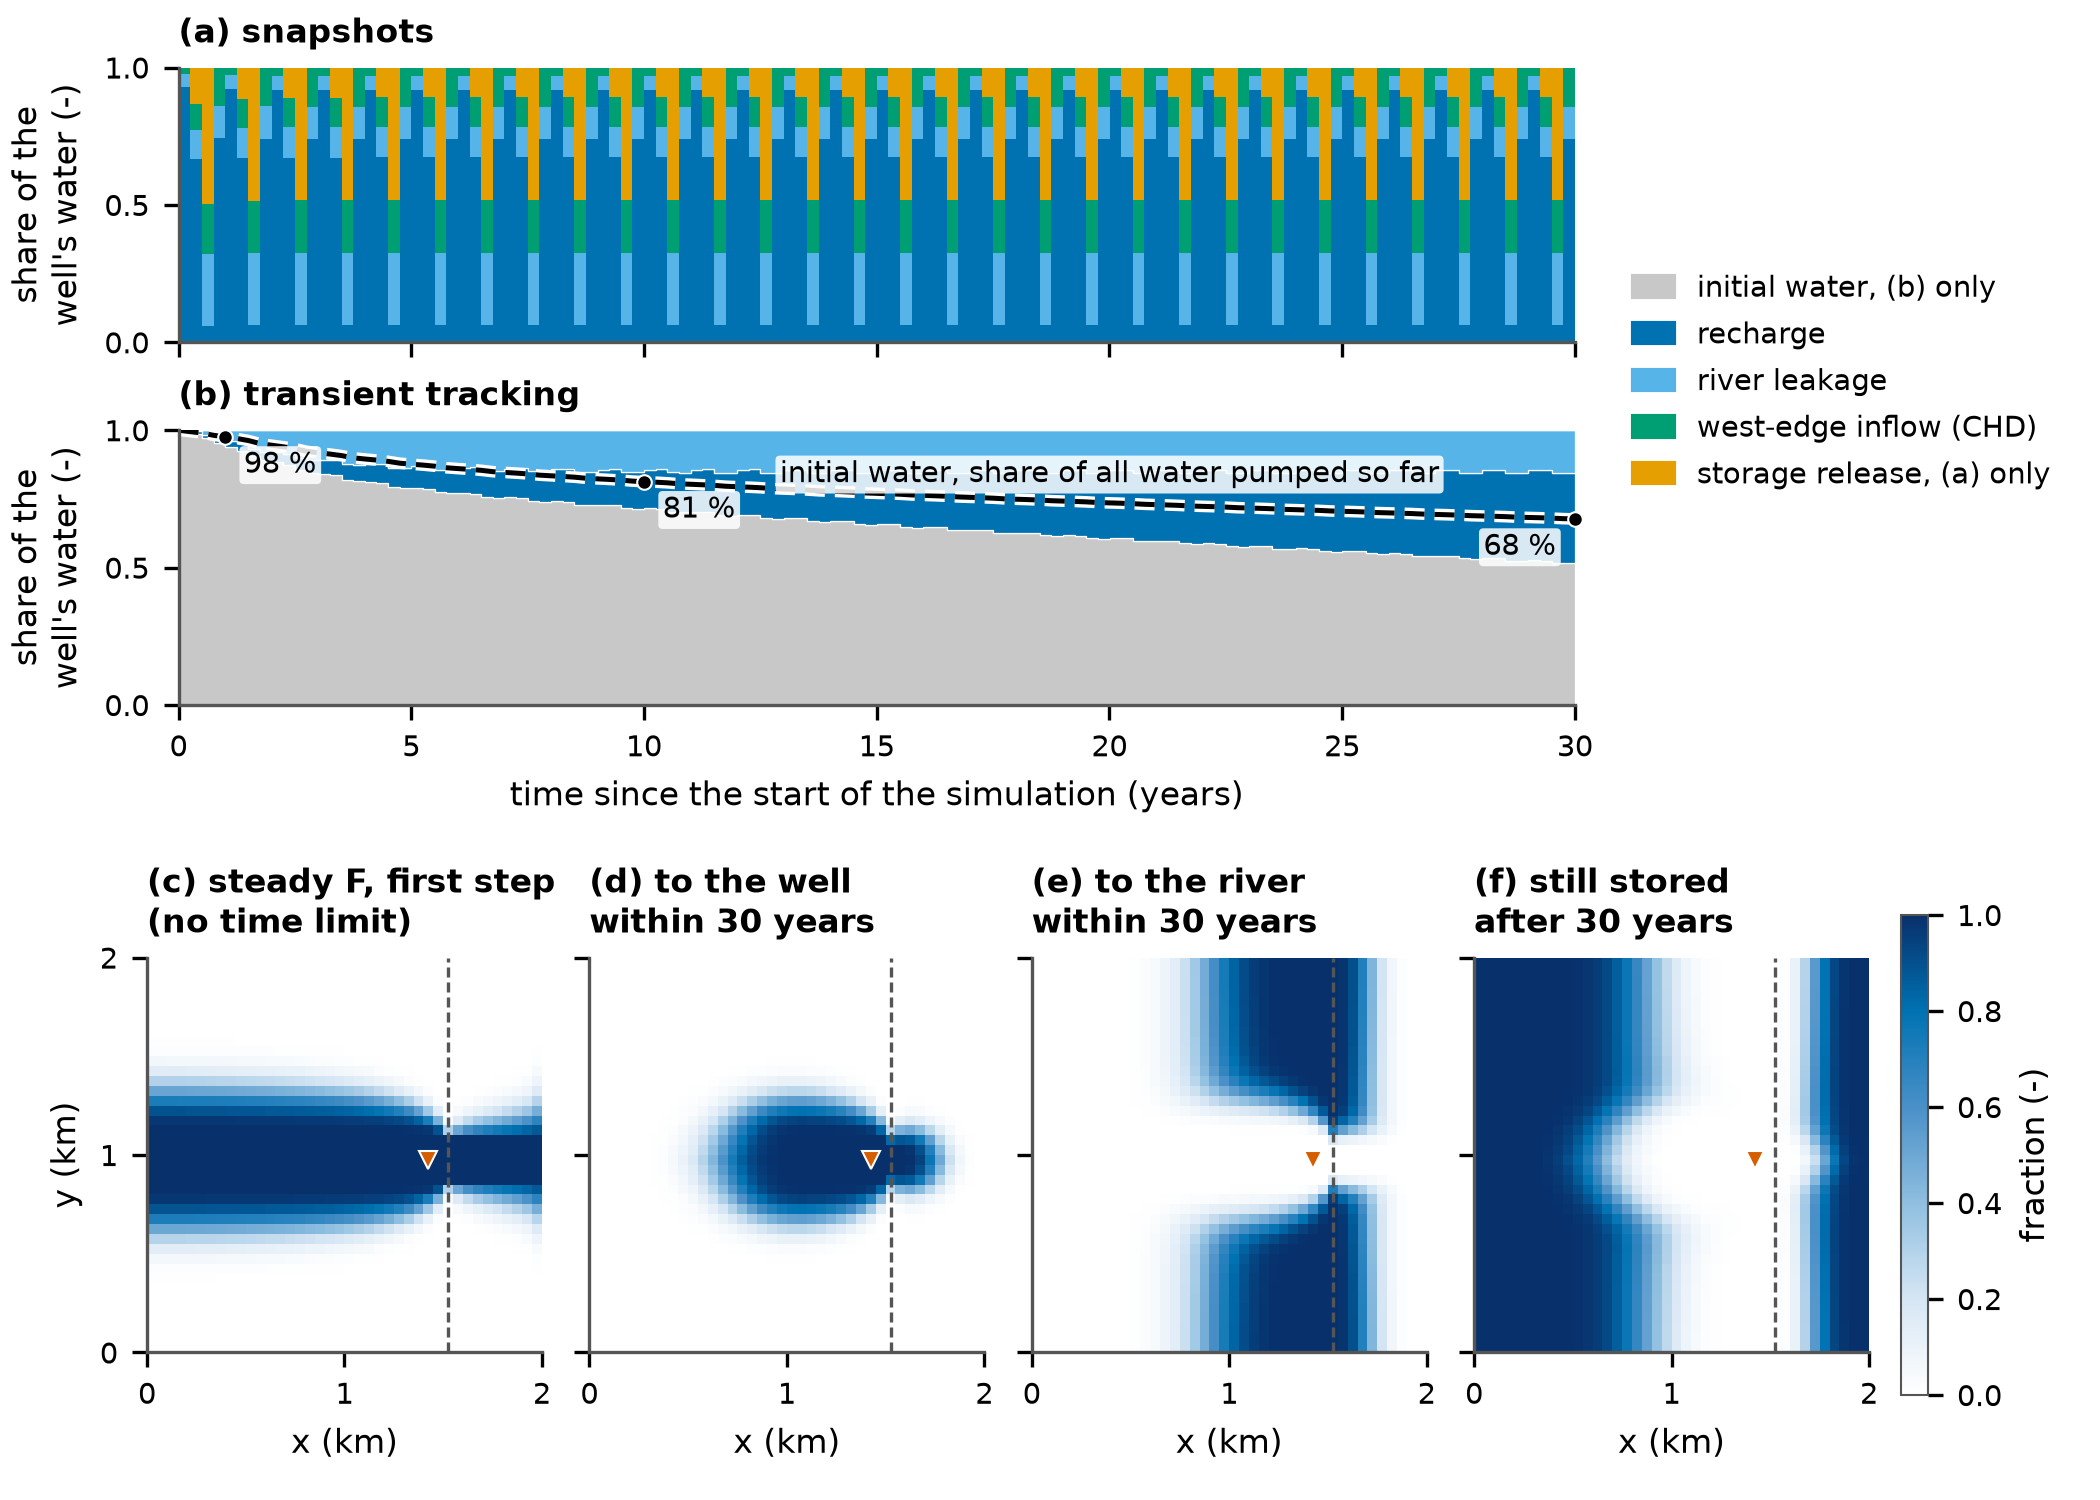
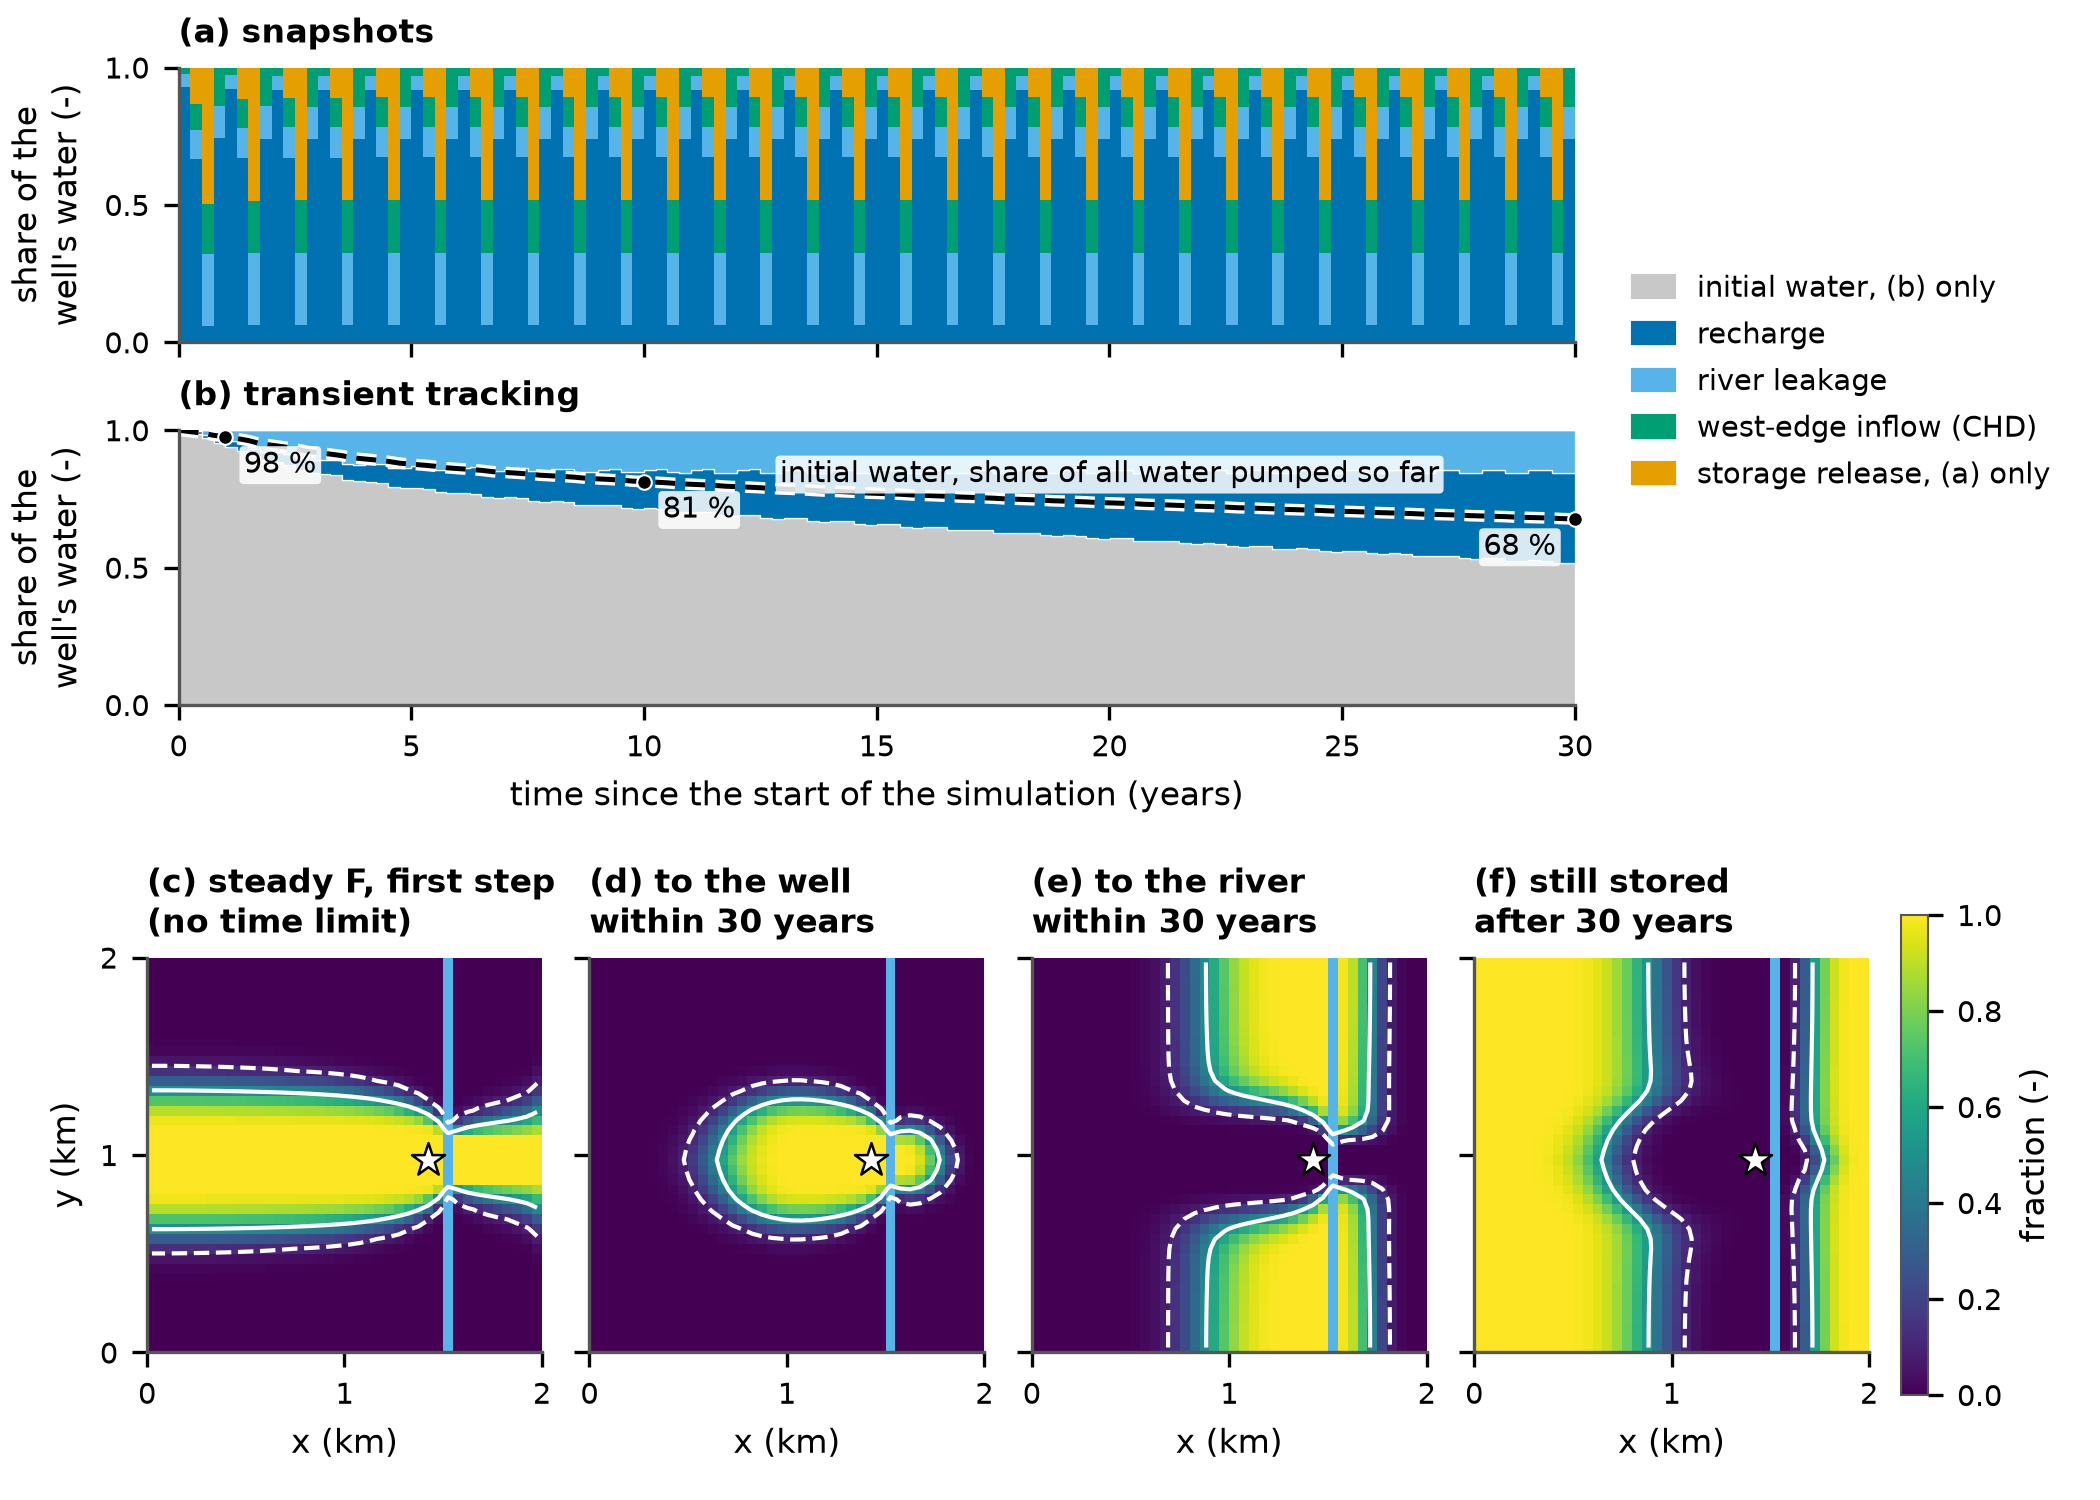
Fig. 9: maps in the examples' style (viridis, white 0.1 and 0.5 contours, sky-blue river cells, white star); saved as fig9_transient_tracking

Changed region(s): [[0.0619, 0.6133, 0.9286, 0.9507]]

diff --git a/studies/paper/transient_figure.py b/studies/paper/transient_figure.py
@@ -1,4 +1,4 @@
-"""Transient-tracking figure of the paper (Fig. 4, file fig4_transient_tracking): tutorial 08's
+"""Transient-tracking figure of the paper (Fig. 9, file fig9_transient_tracking): tutorial 08's
 seasonal model, snapshots against transient tracking through storage. Outline: docs/paper/outline.md §5.4 and §6; wording: docs/paper/terms.md.
 
 The model is tutorial 08's (tutorials/herebedragons.py::build_transient): the tutorial aquifer
@@ -21,16 +21,17 @@ Every panel uses the default "flow" volumes and four transport sub-steps per flo
 23 days; one step per 91-day flow step nearly doubles early arrivals, tutorial 08 §9). Forward
 and backward runs share these options, so the forward-backward check pairs them to round-off.
 Two extra runs at one transport step per flow step serve the checks: "gwt" volumes against an
-MF6 GWT unit-tracer run on the same flows (tutorial 08 §8; the verification on test models 6
-and 7 is Fig. 2's), and "flow" volumes for the difference between the two volume options. A
+MF6 GWT unit-tracer run on the same flows (tutorial 08 §8), and "flow" volumes for the difference between the two volume options. A
 16-sub-step run bounds the effect of the transport step on the year-1 shares.
 
 The caption numbers are in QUOTED and asserted against the computed values before plotting.
 Sizes follow studies/paper/method_figures.py: double column 7 in, fonts 7 to 8 pt, PNG at
-300 dpi and PDF, Okabe-Ito colours. Run from the repository root (model workspaces in
+300 dpi and PDF, Okabe-Ito colours. The maps follow studies/paper/example_figures.py:
+viridis from 0 to 1 with white contours (dashed 0.1, solid 0.5), river cells in sky blue and the
+well as a white star. Run from the repository root (model workspaces in
 studies/paper/output, git-ignored):
 
-    PYTHONPATH=src python studies/paper/transient_figure.py
+    PYTHONPATH=src:tutorials python studies/paper/transient_figure.py
 """
 
 import sys
@@ -47,10 +48,11 @@ import method_figures as mfig  # noqa: E402  (style, palette, save, find_mf6)
 
 import gwsource as gs  # noqa: E402
 import matplotlib.pyplot as plt  # noqa: E402
+from matplotlib.colors import ListedColormap  # noqa: E402
 
 TUTORIAL_DIR = mfig.TUTORIAL_DIR
 TUTORIAL08_DIR = TUTORIAL_DIR / "08_transient_tracking"
-FIG_NAME = "fig4_transient_tracking"
+FIG_NAME = "fig9_transient_tracking"
 WELL = "supply_well"
 N_YEARS = 30
 POROSITY = 0.3
@@ -71,6 +73,12 @@ COLOURS = {
     "storage": OKABE_ITO["orange"],
     "initial": "#c8c8c8",
 }
+F_CMAP = "viridis"  # maps, as studies/paper/example_figures.py
+F_CONTOUR = "white"
+THRESHOLDS = (0.1, 0.5)  # map contours: dashed, solid
+RIVER_COLOUR = OKABE_ITO["sky"]
+STAR_COLOUR = "white"  # the well on maps
+STAR_SIZE = 70.0
 LABELS = {
     "recharge": "recharge",
     "river": "river leakage",
@@ -255,6 +263,7 @@ def compute(
         "first": first,
         "spec": run.spec,
         "well_node": run.info["well_nodes"][well],
+        "river_cells": hbd.feature_cells(first, "RIV"),
         "n_steps": len(fwd.steps),
         "factors": seasonal_factors(run.info),
         "pumping_max": float(summary["well rate (m3/d)"].max()),
@@ -395,18 +404,45 @@ def map_extent(spec) -> tuple[float, float, float, float]:
     return (0.0, spec.lx / 1000.0, 0.0, spec.ly / 1000.0)
 
 
+def cell_centres_km(spec) -> tuple[np.ndarray, np.ndarray]:
+    """Return the x and y (km) of the cell centres of the tutorial grid."""
+    x = (np.arange(spec.ncol) + 0.5) * spec.delr / 1000.0
+    y = (spec.ly - (np.arange(spec.nrow) + 0.5) * spec.delc) / 1000.0
+    return x, y
+
+
+def draw_contours(ax, grid: np.ndarray, spec, levels: tuple = THRESHOLDS,
+                  colour: str = F_CONTOUR) -> None:
+    """Draw the 0.1 (dashed) and 0.5 (solid) contours of a per-cell fraction."""
+    x, y = cell_centres_km(spec)
+    ax.contour(x, y, np.ma.masked_invalid(grid), levels=list(levels), colors=colour,
+               linestyles=["--", "-"], linewidths=1.0)
+
+
+def draw_river(ax, first: gs.FlowStep, river_cells: np.ndarray, spec,
+               colour: str = RIVER_COLOUR) -> None:
+    """Fill the river cells with one colour."""
+    values = np.full(first.n_cells, np.nan)
+    values[river_cells] = 1.0
+    grid = np.ma.masked_invalid(gs.export.to_grid(first, values)[0])
+    ax.imshow(grid, cmap=ListedColormap([colour]), vmin=0.0, vmax=2.0, extent=map_extent(spec),
+              origin="upper", interpolation="nearest")
+
+
 def draw_map(ax, first: gs.FlowStep, values: np.ndarray, spec, well_node: int,
-             okabe_ito: dict = OKABE_ITO):
-    """Map one per-cell fraction (0 to 1) with the river column and the well marked."""
+             river_cells: np.ndarray, star_colour: str = STAR_COLOUR,
+             star_size: float = STAR_SIZE):
+    """Map one per-cell fraction (viridis, 0 to 1) with contours, the river and the well."""
     grid = gs.export.to_grid(first, values)[0]
-    image = ax.imshow(grid, cmap=mfig.F_CMAP, vmin=0.0, vmax=1.0, extent=map_extent(spec),
+    image = ax.imshow(grid, cmap=F_CMAP, vmin=0.0, vmax=1.0, extent=map_extent(spec),
                       origin="upper", interpolation="nearest")
-    x_river = (spec.riv_col + 0.5) * spec.delr / 1000.0
-    ax.plot([x_river, x_river], [0.0, spec.ly / 1000.0], color=mfig.MUTED, lw=0.8,
-            ls=(0, (3, 1.5)))
+    draw_contours(ax, grid, spec)
+    draw_river(ax, first, river_cells, spec)
     x_well, y_well = spec.xy(divmod(well_node, spec.ncol))
-    ax.plot(x_well / 1000.0, y_well / 1000.0, marker="v", color=okabe_ito["vermillion"],
-            ms=4.5, mec="white", mew=0.5)
+    ax.scatter(x_well / 1000.0, y_well / 1000.0, marker="*", s=star_size, color=star_colour,
+               edgecolor="black", linewidth=0.6, zorder=6)
+    ax.set_xlim(0.0, spec.lx / 1000.0)
+    ax.set_ylim(0.0, spec.ly / 1000.0)
     ax.set_xticks((0, 1, 2))
     ax.set_yticks((0, 1, 2))
     ax.set_aspect("equal")
@@ -423,7 +459,7 @@ def series_legend(fig, anchor: tuple[float, float], colours: dict = COLOURS,
 
 
 def make_figure(out_dir: Path, data: dict, fig_name: str = FIG_NAME) -> list[Path]:
-    """Fig. 4: snapshot and tracked shares of the well's water, and four backward maps."""
+    """Fig. 9: snapshot and tracked shares of the well's water, and four backward maps."""
     fig = plt.figure(figsize=(mfig.FULL_WIDTH, 5.0))
     top = fig.add_gridspec(2, 1, left=0.085, right=0.75, top=0.955, bottom=0.53, hspace=0.32)
     ax_snap = fig.add_subplot(top[0])
@@ -447,7 +483,8 @@ def make_figure(out_dir: Path, data: dict, fig_name: str = FIG_NAME) -> list[Pat
     }
     axes = [fig.add_subplot(bottom[0, i]) for i in range(4)]
     for ax, (key, title) in zip(axes, titles.items()):
-        image = draw_map(ax, data["first"], data["maps"][key], data["spec"], data["well_node"])
+        image = draw_map(ax, data["first"], data["maps"][key], data["spec"], data["well_node"],
+                         data["river_cells"])
         ax.set_title(title, loc="left", fontweight="bold")
         ax.set_xlabel("x (km)")
     axes[0].set_ylabel("y (km)")
@@ -464,7 +501,7 @@ def make_figure(out_dir: Path, data: dict, fig_name: str = FIG_NAME) -> list[Pat
 
 
 def main(out_dir: Path = mfig.FIG_DIR, work: Path = mfig.WORK_DIR) -> dict[str, float]:
-    """Build tutorial 08's model, check the caption numbers and write Fig. 4."""
+    """Build tutorial 08's model, check the caption numbers and write Fig. 9."""
     mfig.paper_style()
     start = time.perf_counter()
     data = compute(work, mfig.find_mf6())
